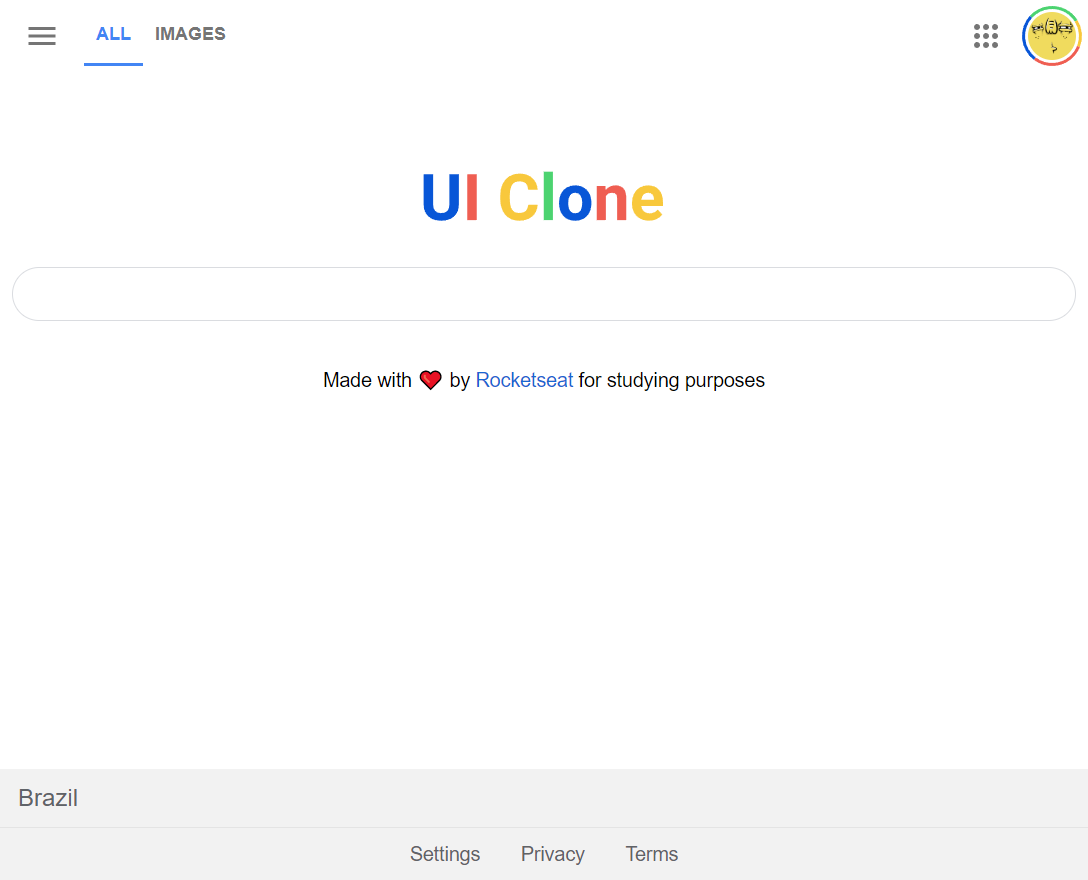
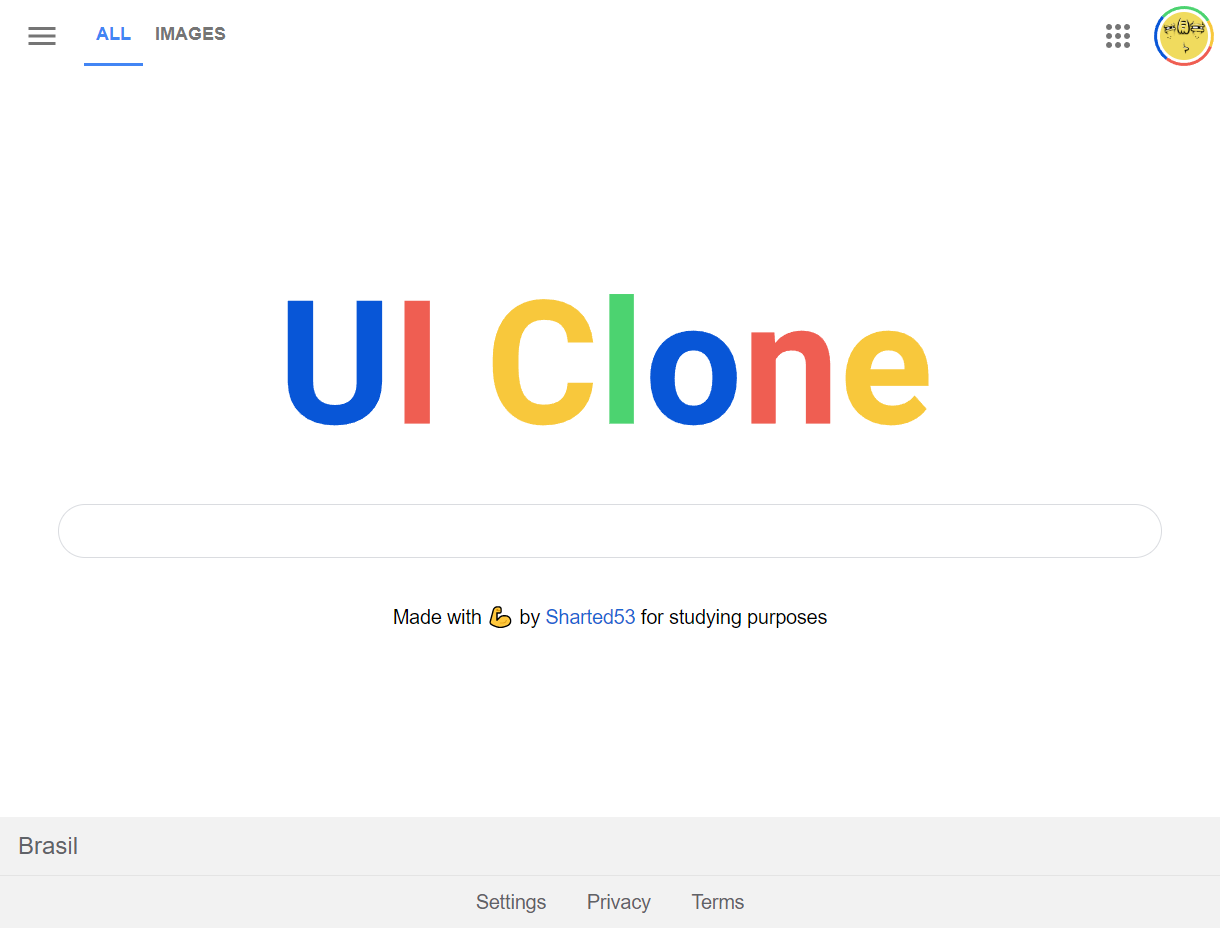
change link

diff --git a/index.html b/index.html
@@ -30,16 +30,16 @@
         <input class="content__search" type="text">
 
         <div class="content__offer">
-            Made with ❤ by
+            Made with 💪 by
             <a target="_blank"
-             href="https://youtube.com/rocketseat">Rocketseat</a> for studying
+             href="https://github.com/sharted53">Sharted53</a> for studying
             purposes
 
         </div>
     </main>
     <footer class="footer">
         <div class="footer__section footer__location">
-            <span>Brazil</span>
+            <span>Brasil</span>
         </div>
 
         <div class="footer__section footer__links">

diff --git a/README.md b/README.md
@@ -1,5 +1,5 @@
 # Clone Google HOMEPAGE
-![preview](./preview.png)
+![preview](./.github/preview.png)
 
 >Projeto de um vídeo do youtube.
 
